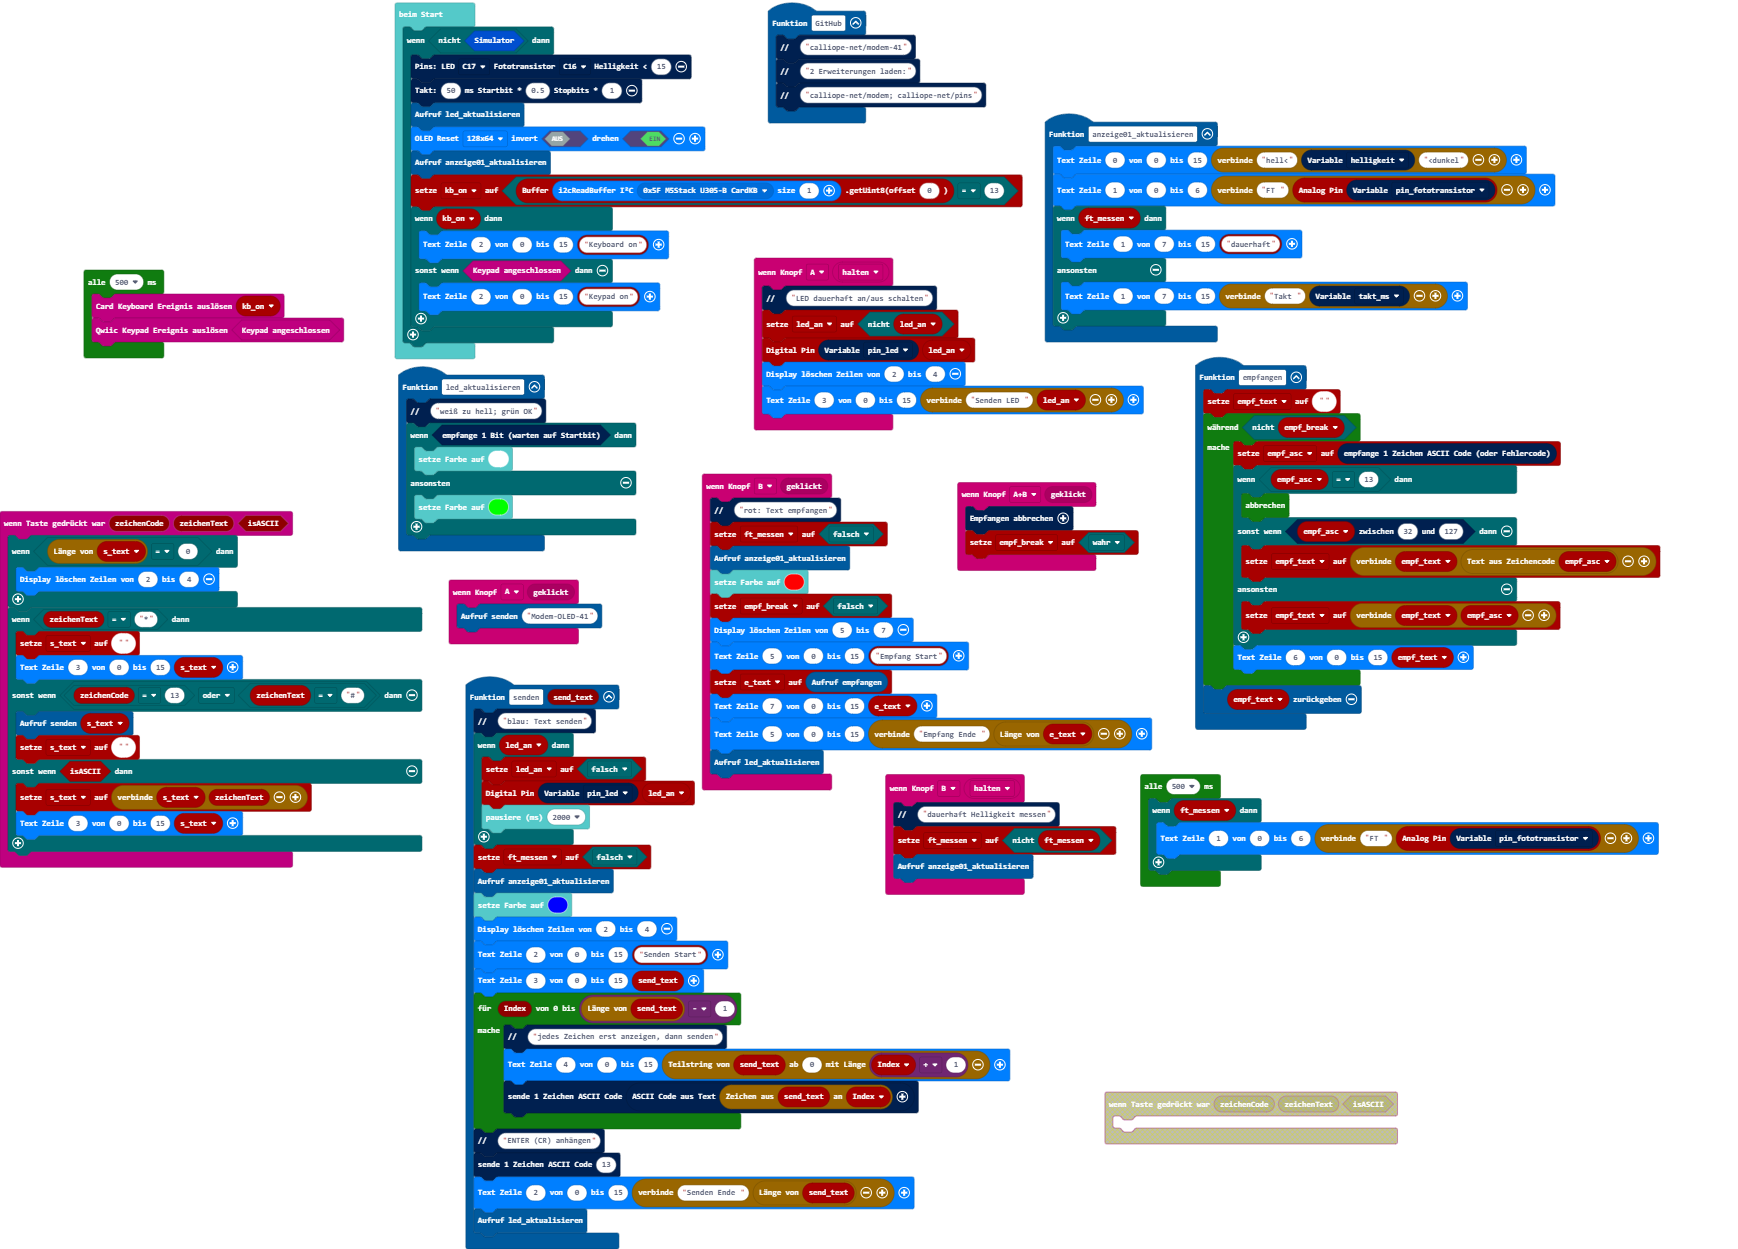
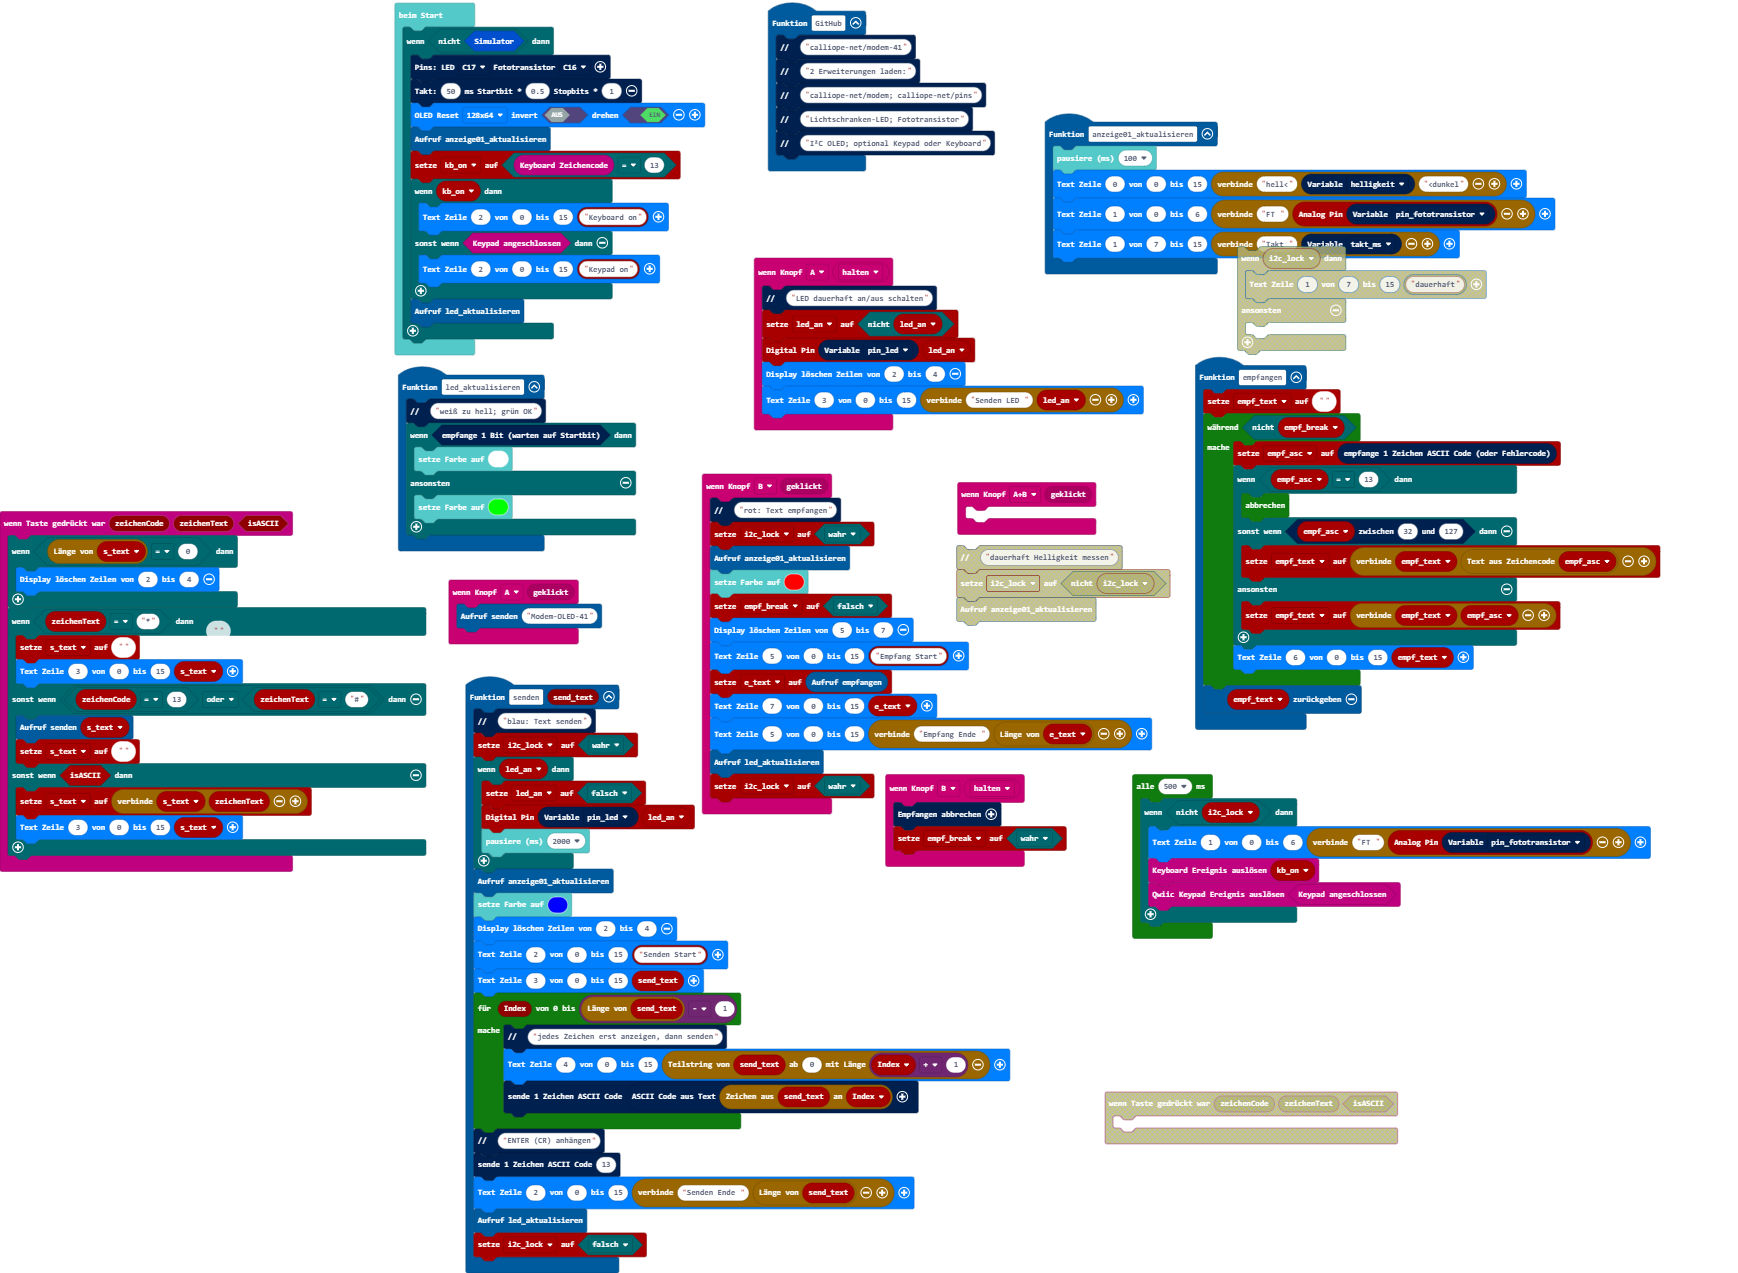
Aktualisiere pxt.json, main.blocks, main.ts

Changed region(s): [[0.0, 0.0, 0.9632, 0.9992], [0.6214, 0.8431, 0.8078, 0.9367]]

diff --git a/main.ts b/main.ts
@@ -1,11 +1,11 @@
 function senden (send_text: string) {
     modem.comment("blau: Text senden")
+    i2c_lock = true
     if (led_an) {
         led_an = false
         pins.pinDigitalWrite(modem.get_settings(modem.e_settings.pin_led), led_an)
         basic.pause(2000)
     }
-    ft_messen = false
     anzeige01_aktualisieren()
     basic.setLedColor(0x0000ff)
     pins.oled_clear(2, 4)
@@ -20,11 +20,14 @@ function senden (send_text: string) {
     modem.sende_code(13)
     pins.oled_write_text(2, 0, 15, "Senden Ende " + send_text.length)
     led_aktualisieren()
+    i2c_lock = false
 }
 function GitHub () {
     modem.comment("calliope-net/modem-41")
     modem.comment("2 Erweiterungen laden:")
     modem.comment("calliope-net/modem; calliope-net/pins")
+    modem.comment("Lichtschranken-LED; Fototransistor")
+    modem.comment("I²C OLED; optional Keypad oder Keyboard")
 }
 pins.onKeyboardEvent(function (zeichenCode, zeichenText, isASCII) {
     if (s_text.length == 0) {
@@ -68,12 +71,11 @@ function led_aktualisieren () {
     }
 }
 input.onButtonEvent(Button.AB, input.buttonEventClick(), function () {
-    modem.empfang_abbrechen()
-    empf_break = true
+	
 })
 input.onButtonEvent(Button.B, input.buttonEventClick(), function () {
     modem.comment("rot: Text empfangen")
-    ft_messen = false
+    i2c_lock = true
     anzeige01_aktualisieren()
     basic.setLedColor(0xff0000)
     empf_break = false
@@ -83,15 +85,13 @@ input.onButtonEvent(Button.B, input.buttonEventClick(), function () {
     pins.oled_write_text(7, 0, 15, e_text)
     pins.oled_write_text(5, 0, 15, "Empfang Ende " + e_text.length)
     led_aktualisieren()
+    i2c_lock = true
 })
 function anzeige01_aktualisieren () {
+    basic.pause(100)
     pins.oled_write_text(0, 0, 15, "hell<" + modem.get_settings(modem.e_settings.helligkeit) + "<dunkel")
     pins.oled_write_text(1, 0, 6, "FT " + pins.pinAnalogRead(modem.get_settings(modem.e_settings.pin_fototransistor)))
-    if (ft_messen) {
-        pins.oled_write_text(1, 7, 15, pins.pins_text("dauerhaft"))
-    } else {
-        pins.oled_write_text(1, 7, 15, "Takt " + modem.get_settings(modem.e_settings.takt_ms))
-    }
+    pins.oled_write_text(1, 7, 15, "Takt " + modem.get_settings(modem.e_settings.takt_ms))
 }
 input.onButtonEvent(Button.A, ButtonEvent.Hold, function () {
     modem.comment("LED dauerhaft an/aus schalten")
@@ -101,37 +101,34 @@ input.onButtonEvent(Button.A, ButtonEvent.Hold, function () {
     pins.oled_write_text(3, 0, 15, "Senden LED " + led_an)
 })
 input.onButtonEvent(Button.B, ButtonEvent.Hold, function () {
-    modem.comment("dauerhaft Helligkeit messen")
-    ft_messen = !(ft_messen)
-    anzeige01_aktualisieren()
+    modem.empfang_abbrechen()
+    empf_break = true
 })
 let e_text = ""
 let empf_asc = 0
 let empf_break = false
 let empf_text = ""
 let s_text = ""
-let ft_messen = false
 let led_an = false
+let i2c_lock = false
 let kb_on = false
 if (!(pins.simulator())) {
-    modem.set_pins(DigitalPin.C17, AnalogPin.C16, 15)
+    modem.set_pins(DigitalPin.C17, AnalogPin.C16)
     modem.set_takt(50, 0.5, 1)
-    led_aktualisieren()
     pins.oled_reset(pins.oled_pages.y64, false, true)
     anzeige01_aktualisieren()
-    kb_on = pins.buffer_getUint8(pins.pins_i2cReadBuffer(pins.pins_i2cAdressen(pins.ei2cAdressen.CardKB_x5F), 1), 0) == 13
+    kb_on = pins.keyboard_read() == 13
     if (kb_on) {
         pins.oled_write_text(2, 0, 15, pins.pins_text("Keyboard on"))
     } else if (pins.keypadConnected()) {
         pins.oled_write_text(2, 0, 15, pins.pins_text("Keypad on"))
     }
+    led_aktualisieren()
 }
 loops.everyInterval(500, function () {
-    pins.raiseKeyboardEvent(kb_on)
-    pins.raiseKeypadEvent(pins.keypadConnected())
-})
-loops.everyInterval(500, function () {
-    if (ft_messen) {
+    if (!(i2c_lock)) {
         pins.oled_write_text(1, 0, 6, "FT " + pins.pinAnalogRead(modem.get_settings(modem.e_settings.pin_fototransistor)))
+        pins.raiseKeyboardEvent(kb_on)
+        pins.raiseKeypadEvent(pins.keypadConnected())
     }
 })
